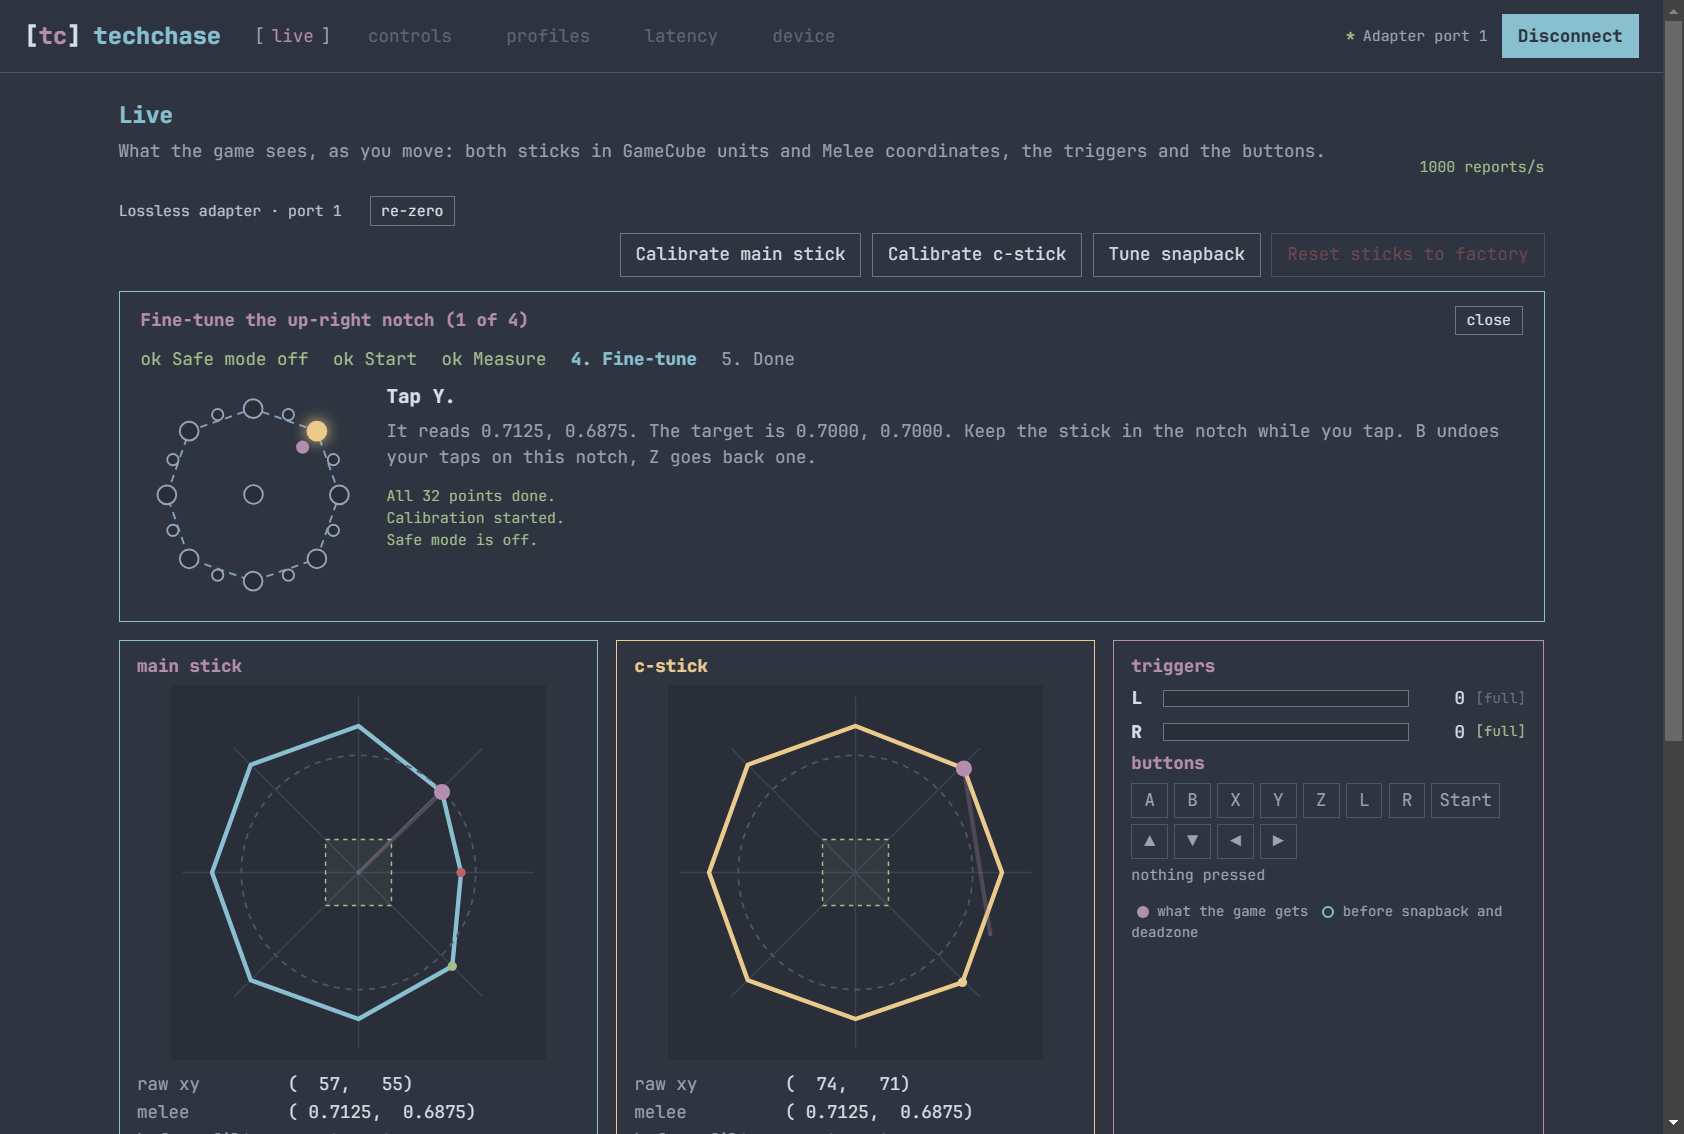
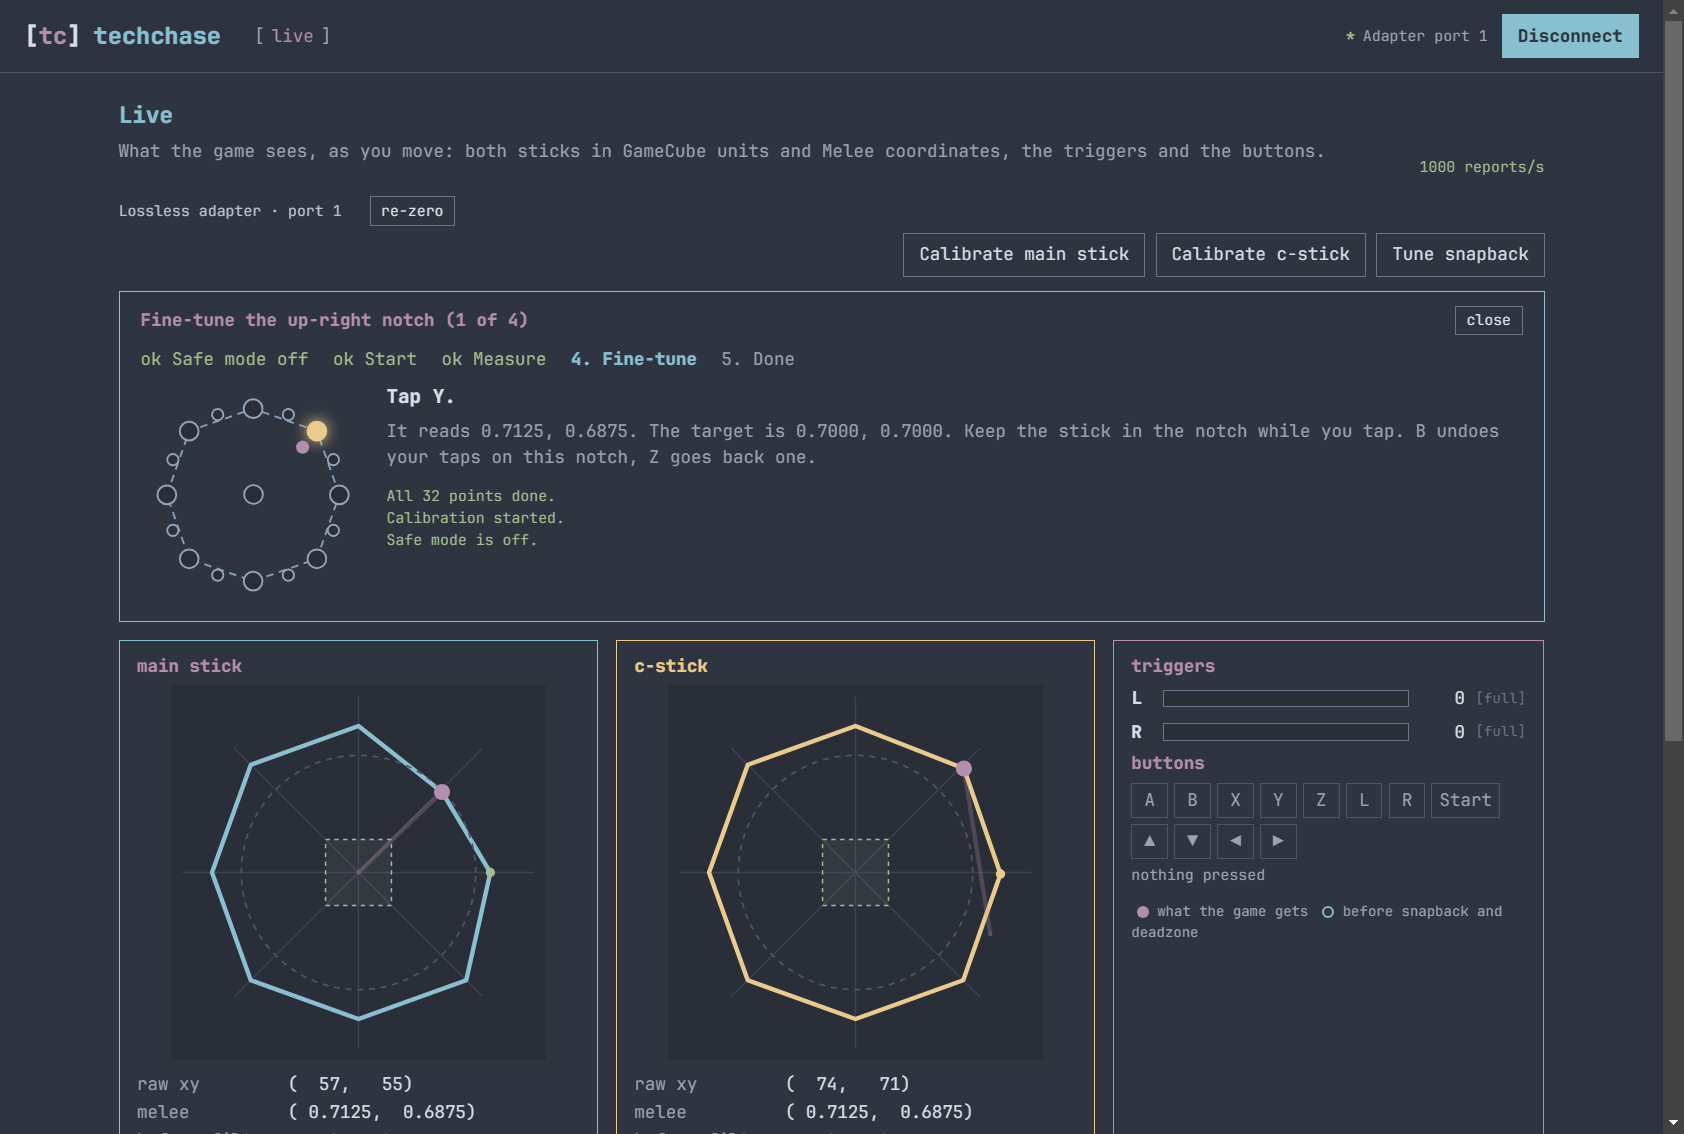
Show only the Live tab and the Phob's buttons when a Phob is connected

Changed region(s): [[0.3705, 0.216, 0.9264, 0.2469], [0.247, 0.7099, 0.3088, 0.8025], [0.2162, 0.8333, 0.2779, 0.8951]]

diff --git a/tools/app/app.js b/tools/app/app.js
@@ -76,11 +76,11 @@ function renderCalibButtons() {
   $('#snapBtn').disabled = !state.dev && !state.pad;
   if (state.pad) {
     for (const id of ['#calibL', '#calibR']) { $(id).disabled = false; $(id).title = ''; }
-    $('#calibReset').disabled = true;
-    $('#calibReset').title = 'A Phob resets its own settings: turn safe mode off, hold A+B+Z and press Start. That keeps the stick calibration.';
+    $('#calibReset').hidden = true;
     $('#calibHint').textContent = '';
     return;
   }
+  $('#calibReset').hidden = false;
   const ok = !!state.dev && holdsChanges();
   for (const id of ['#calibL', '#calibR', '#calibReset']) {
     $(id).disabled = !ok;
@@ -302,9 +302,7 @@ function renderConnection() {
   const s = $('#connStatus');
   const btn = $('#connectBtn');
   for (const b of $$('.tabs button')) {
-    const off = !!state.pad && b.dataset.tab !== 'live';
-    b.disabled = off;
-    b.title = off ? 'Needs a GC Ultimate on USB. A Phob changes its settings through button combos, which the Live tab walks you through.' : '';
+    b.hidden = !!state.pad && b.dataset.tab !== 'live';
   }
   if (state.pad) {
     const ports = state.pad.connectedPorts();
